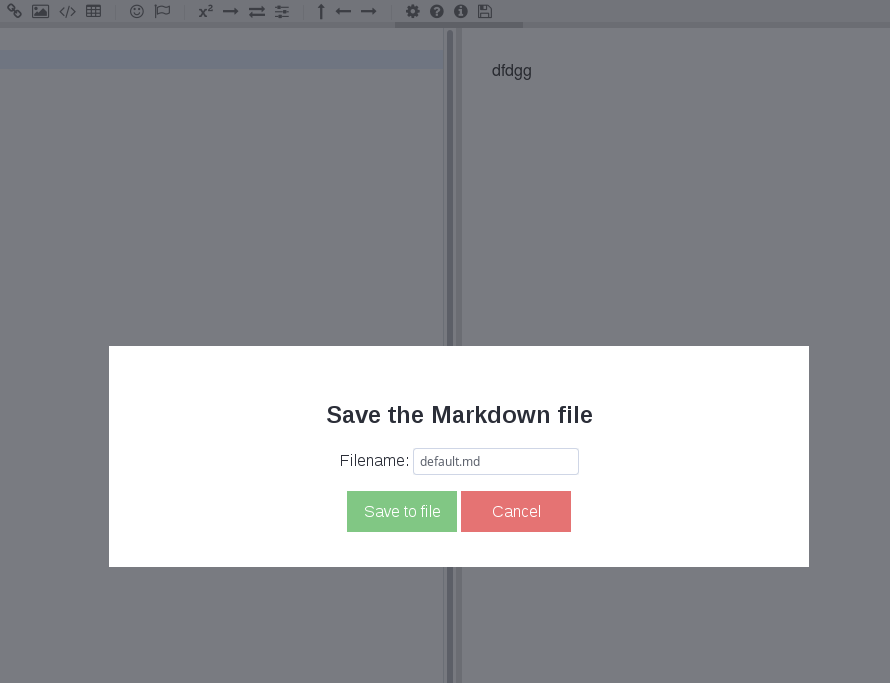
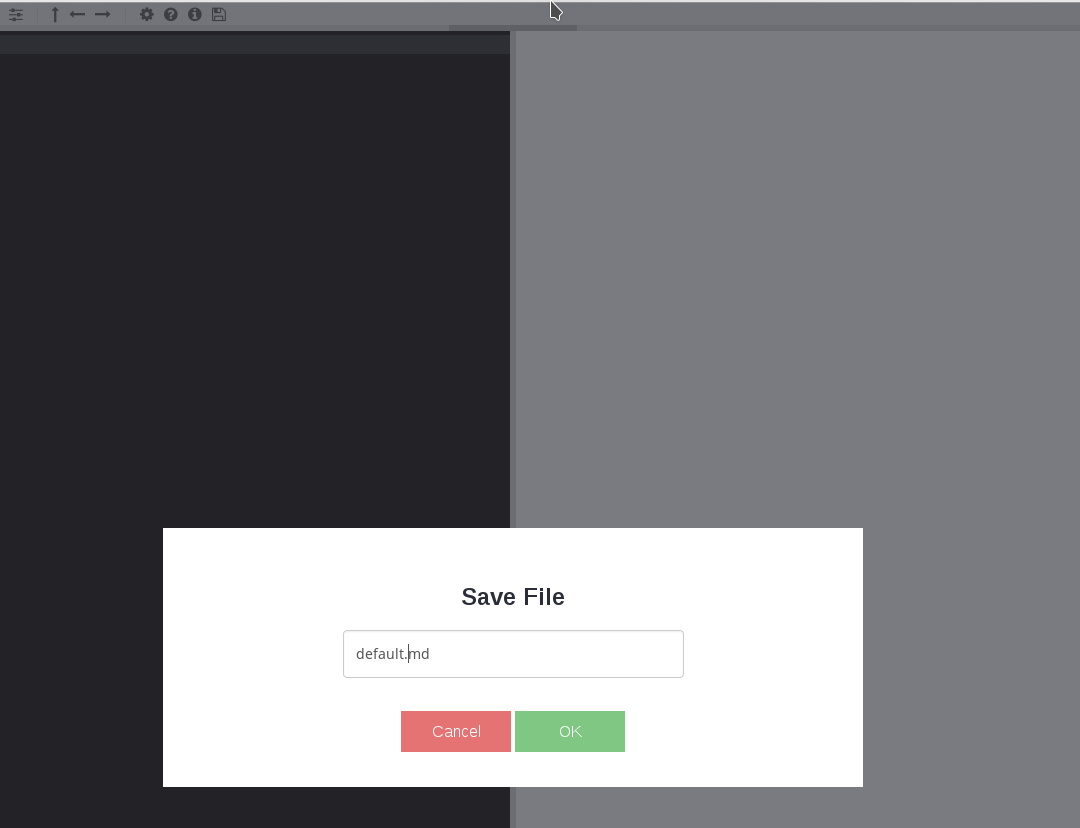
Re did it intergreate in the applications model, the javascript is insatlled by yarn and buildt by webpack so no more adhoc code in html

diff --git a/dist/index.html b/dist/index.html
@@ -193,12 +193,11 @@ T3: 2014-01-02, 9d"></i>
           <p>Home page: <a href="http://tylingsoft.com/markdown-plus/" target="_blank">http://tylingsoft.com/markdown-plus/</a>.</p>
           <br/><a data-remodal-action="confirm" class="remodal-confirm">OK</a>
         </div>
-        <!-- save dialog -->
-        <div class="remodal" data-remodal-id="save-modal"> <!-- about modal -->
-          <h2>Save the Markdown file</h2>
-          <p>Filename: <input id="filename" title="try it" value="default.md"></input></p>
-          <button id="btn-save" type="submit" class="remodal-confirm" data-remodal-action="confirm">Save to file</button>
-          <a class="remodal-cancel" data-remodal-action="confirm">Cancel</a>
+        <div class="remodal" id="save-modal" data-remodal-id="save-modal"> <!-- save dialog -->
+          <h2> Save File</h2>
+          <p><input class="form-control" id="save-code" value="default.md"/></p>
+          <br/><a data-remodal-action="cancel" class="remodal-cancel">Cancel</a>
+          <a data-remodal-action="confirm" class="remodal-confirm" id="save-confirm">OK</a>
         </div>
       </div>
       <div class="ui-layout-east">
@@ -209,7 +208,5 @@ T3: 2014-01-02, 9d"></i>
     <script src="https://cdnjs.cloudflare.com/ajax/libs/remodal/1.1.1/remodal.min.js"></script>
     <script src="https://cdnjs.cloudflare.com/ajax/libs/jqueryui/1.12.0/jquery-ui.min.js"></script>
     <script src="https://cdn.jsdelivr.net/jquery.layout/1.4.3/jquery.layout.min.js"></script>
-    <script src="https://s3-us-west-2.amazonaws.com/s.cdpn.io/14082/FileSaver.js"></script>
-    <script> $("#btn-save").click(function() { var text = ext.getCode(); var filename = $("#filename").val(); var blob = new Blob([text], {type: "text/plain;charset=utf-8"}); saveAs(blob, filename); } ); </script>
   </body>
 </html>

diff --git a/src/toolbar.js b/src/toolbar.js
@@ -3,6 +3,7 @@ import $ from 'jquery'
 import editor from './editor'
 import { getNormalPreviewWidth } from './util'
 import layout from './layout'
+import { saveAs } from 'file-saver'
 
 const getSampleText = (event) => {
   let text = editor.getSelection()
@@ -11,6 +12,7 @@ const getSampleText = (event) => {
   }
   return text
 }
+
 
 const promptForValue = (key, action) => {
   $(document).on('opened', '#' + key + '-modal', () => {
@@ -26,6 +28,23 @@ const promptForValue = (key, action) => {
     if (value.length > 0) {
       action(value)
       $('#' + key + '-code').val('')
+    }
+  })
+}
+
+const saveValue = (key, action) => {
+  $(document).on('opened', '#' + key + '-modal', () => {
+    $('#' + key + '-code').focus()
+  })
+  $('#' + key + '-code').keyup((e) => {
+    if (e.which === 13) { // press enter to confirm
+      $('#' + key + '-confirm').click()
+    }
+  })
+  $(document).on('confirmation', '#' + key + '-modal', () => {
+    const value = $('#' + key + '-code').val().trim()
+    if (value.length > 0) {
+      action(value)
     }
   })
 }
@@ -123,6 +142,14 @@ const registerToolBarEvents = () => {
     editor.replaceSelection(`:fa-${value}:`)
   })
 
+  // Save Dialog
+  saveValue('save', (value) => {
+    var text = editor.getValue()
+    var filename = value
+    var blob = new Blob([text], {type: "text/plain;charset=utf-8"})
+    saveAs(blob, filename);
+  })
+
   $('#math-icon').click((event) => {
     let text = getSampleText(event)
     editor.replaceSelection(`\n\`\`\`katex\n${text}\n\`\`\`\n`)
@@ -154,6 +181,10 @@ const registerToolBarEvents = () => {
       layout.sizePane('east', 1)
     }
   })
+
 }
+
+
+
 
 export { registerToolBarEvents }

diff --git a/src/index.js b/src/index.js
@@ -22,14 +22,6 @@ $(() => {
   })
   require('./index.css')
 })
-// get codemirror content via method
-function getCode() {
-  const editor = require('./editor').default
-  var text = editor.getValue();
-  return text;
-}
 
 // export getCode
-module.exports = {
-  getCode: getCode,
-}
+module.exports = {}
